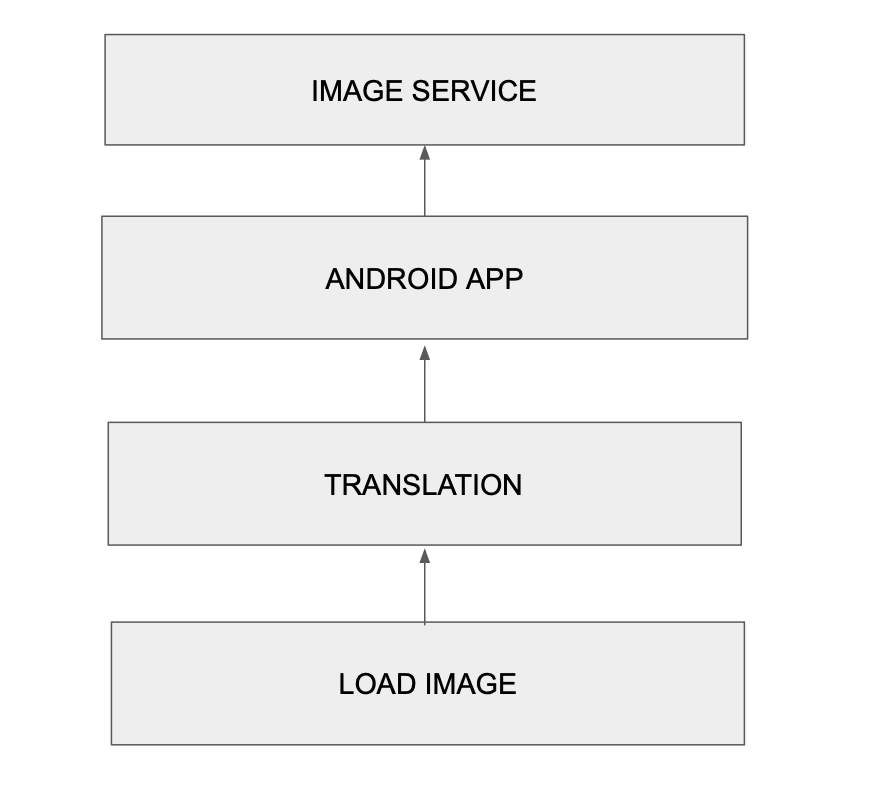
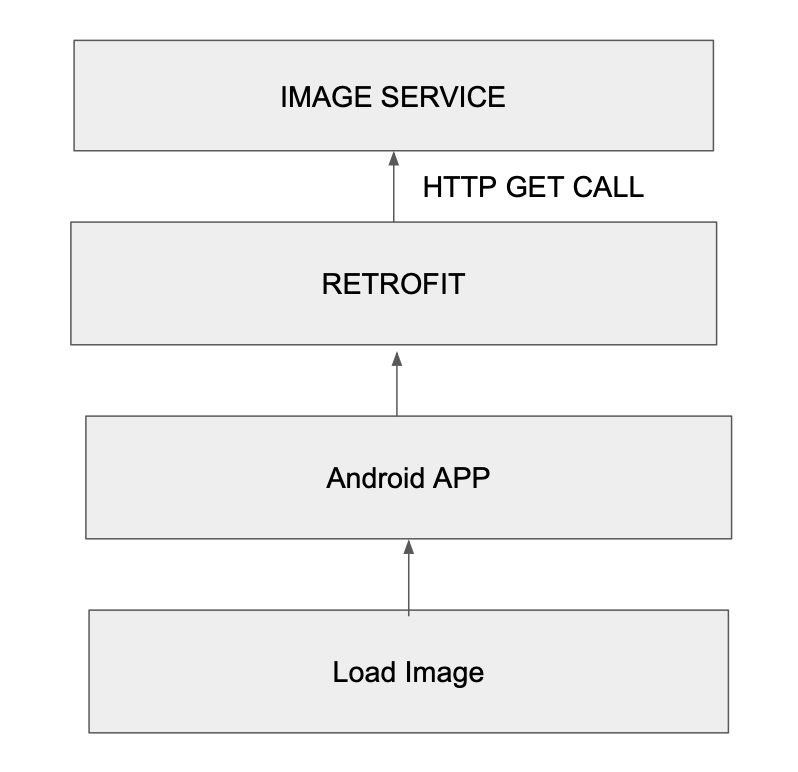
updated network request and added flow chart

diff --git a/app/src/main/java/com/williamrai_zero/upic/ui/mainactivity/MainActivity.kt b/app/src/main/java/com/williamrai_zero/upic/ui/mainactivity/MainActivity.kt
@@ -1,24 +1,29 @@
 package com.williamrai_zero.upic.ui.mainactivity
 
+import android.content.Context
+import android.content.Intent
+import android.content.SharedPreferences
 import androidx.appcompat.app.AppCompatActivity
 import android.os.Bundle
 import android.util.Log
 import android.view.View
-import android.widget.Toast
 import androidx.activity.viewModels
-import androidx.recyclerview.widget.StaggeredGridLayoutManager
+import androidx.recyclerview.widget.GridLayoutManager
+import com.google.android.material.snackbar.Snackbar
+import com.williamrai_zero.upic.R
 import com.williamrai_zero.upic.databinding.ActivityMainBinding
-import com.williamrai_zero.upic.ui.viewmodels.ImageViewModel
+import com.williamrai_zero.upic.ui.fullimageactivity.FullImageActivity
+import com.williamrai_zero.upic.util.networkutil.Resource
 import dagger.hilt.android.AndroidEntryPoint
 
 @AndroidEntryPoint
-class MainActivity : AppCompatActivity() {
+class MainActivity : AppCompatActivity(), ImageAdapter.OnImageListener {
 
     private lateinit var binding: ActivityMainBinding
     private lateinit var imageAdapter: ImageAdapter
 
     private val imageViewModel: ImageViewModel by viewModels()
-
+    private lateinit var sharedPref : SharedPreferences
 
     override fun onCreate(savedInstanceState: Bundle?) {
         super.onCreate(savedInstanceState)
@@ -27,42 +32,107 @@ class MainActivity : AppCompatActivity() {
         setContentView(binding.root)
 
         init()
+        binding.btnReload.setOnClickListener {
+            imageViewModel.getAllImages()
+            binding.llNoConnection.visibility = View.GONE
+        }
+
+        binding.swipeRefreshLayout.setOnRefreshListener {
+            imageViewModel.getAllImages()
+            binding.swipeRefreshLayout.isRefreshing = false
+            binding.llNoConnection.visibility = View.GONE
+        }
+
+        Log.d("values","${sharedPref.getBoolean(getString(R.string.first_load),false)}")
 
     }
 
     private fun init() {
+        defaultLoadState()
         // call to network for data
-        setupData()
+        observerForImages(true)
         // recyclerView
         setupRecyclerView()
+
     }
 
-    private fun setupData() {
+    private fun defaultLoadState() {
+        // default load value
+        sharedPref = getSharedPreferences(getString(R.string.sharef_prefs),Context.MODE_PRIVATE)
+        with(sharedPref.edit()) {
+            putBoolean(getString(R.string.first_load),true)
+            commit()
+        }
+    }
+
+
+    private fun observerForImages(isFirsLoad: Boolean) {
         imageViewModel.responseImage.observe(this) { response ->
-            when (response.size) {
-                1 -> {
-                    Toast.makeText(this,response[0].url,Toast.LENGTH_LONG).show()
-                } else -> {
-                imageAdapter.postData(response)
+            when (response) {
+                // when response is successful
+                is Resource.Success -> {
+                    hideProgressBar()
+                    // sets images to recyclerview adapter
+                    response.data?.let { images ->
+                        imageAdapter.postData(images)
+                    }
+
+                    with(sharedPref.edit()) {
+                        putBoolean(getString(R.string.first_load),false)
+                        commit()
+                    }
+                }
+
+                is Resource.Error -> {
+                    hideProgressBar()
+                    response.message?.let { message ->
+                        if(sharedPref.getBoolean(getString(R.string.first_load),false)) {
+                            binding.llNoConnection.visibility = View.VISIBLE
+
+                        } else {
+                            showNetworkSnackBar(message)
+                        }
+                    }
+                }
+
+                is Resource.Loading -> {
+                    showProgressBar()
                 }
             }
-
-            // until response is filled runs progress bar
-            if (response.isNotEmpty()) {
-                binding.progressBar.visibility = View.GONE
-            }
         }
+    }
 
+
+    private fun hideProgressBar() {
+        binding.progressBar.visibility = View.GONE
+    }
+
+    private fun showProgressBar() {
+        binding.progressBar.visibility = View.VISIBLE
+    }
+
+
+    private fun showNetworkSnackBar(message: String) {
+        Snackbar.make(
+            binding.clMainActivity,
+            "$message",
+            Snackbar.LENGTH_LONG
+        ).show()
     }
 
     private fun setupRecyclerView() {
-        imageAdapter = ImageAdapter(this)
-
+        imageAdapter = ImageAdapter(this, this )
         binding.imageRecyclerView.apply {
             adapter = imageAdapter
-            layoutManager = StaggeredGridLayoutManager(2,StaggeredGridLayoutManager.VERTICAL)
+            layoutManager = GridLayoutManager(this@MainActivity, 2)
             setHasFixedSize(true)
         }
+    }
+
+    override fun onImageClick(url: String) {
+        val intent = Intent(this, FullImageActivity::class.java)
+        intent.putExtra("url",url)
+        startActivity(intent)
     }
 
 }

diff --git a/app/src/main/java/com/williamrai_zero/upic/ui/mainactivity/ImageViewModel.kt b/app/src/main/java/com/williamrai_zero/upic/ui/mainactivity/ImageViewModel.kt
@@ -1,4 +1,4 @@
-package com.williamrai_zero.upic.ui.viewmodels
+package com.williamrai_zero.upic.ui.mainactivity
 
 
 import android.app.Application
@@ -7,14 +7,15 @@ import android.net.ConnectivityManager
 import android.net.ConnectivityManager.*
 import android.net.NetworkCapabilities.*
 import android.os.Build
-import android.util.Log
 import androidx.lifecycle.*
 import com.williamrai_zero.upic.MyApplication
+import com.williamrai_zero.upic.R
 import com.williamrai_zero.upic.model.ImageItem
 import com.williamrai_zero.upic.repository.ImageRepository
-import com.williamrai_zero.upic.util.Constants.IMAGE_NETWORK_ERROR
+import com.williamrai_zero.upic.util.networkutil.Resource
 import dagger.hilt.android.lifecycle.HiltViewModel
 import kotlinx.coroutines.launch
+import retrofit2.Response
 import java.io.IOException
 import javax.inject.Inject
 
@@ -22,39 +23,42 @@ import javax.inject.Inject
 @HiltViewModel
 class ImageViewModel
 @Inject
-constructor(private val repository: ImageRepository, app: Application) :
-    AndroidViewModel(app) {
+constructor(
+    private val repository: ImageRepository,
+    private val app: Application
+) : AndroidViewModel(app) {
 
-    private val _response = MutableLiveData<List<ImageItem>>()
+    private val _response = MutableLiveData<Resource<List<ImageItem>>>()
 
-    val responseImage: LiveData<List<ImageItem>>
+    val responseImage: LiveData<Resource<List<ImageItem>>>
         get() = _response
 
     init {
         getAllImages()
     }
 
-    private fun getAllImages() = viewModelScope.launch {
+    fun getAllImages() = viewModelScope.launch {
         safeLoadingImages()
     }
 
+    /**
+     *
+     */
     private suspend fun safeLoadingImages() {
+        _response.postValue(Resource.Loading())
         try {
-            if(checkInternetConnection()) {
+            if (hasInternetConnection()) {
                 repository.getAllImages().let { response ->
-                    if (response.isSuccessful) {
-                        _response.postValue(response.body())
-                    } else {
-                        Log.d(IMAGE_NETWORK_ERROR, "ERROR")
-                    }
+                    _response.postValue(handleImageResponse(response))
                 }
             } else {
-                _response.postValue(listOf(ImageItem("no internet connection","","")))
+                _response.postValue(Resource.Error("No Internet connection. Please check your network."))
             }
 
         } catch (t: Throwable) {
             when (t) {
-                is IOException ->  _response.postValue(listOf(ImageItem("Network Failure","","")))
+                is IOException -> _response.postValue(Resource.Error("Network Failure"))
+                else -> _response.postValue(Resource.Error("Error: ${t.message}"))
             }
         }
     }
@@ -62,10 +66,17 @@ constructor(private val repository: ImageRepository, app: Application) :
     /**
      *
      */
-    private fun checkInternetConnection(): Boolean {
-        val connectivityManager = getApplication<MyApplication>().getSystemService(
-            Context.CONNECTIVITY_SERVICE) as ConnectivityManager
+    private fun handleImageResponse(response: Response<List<ImageItem>>): Resource<List<ImageItem>> {
+        if (response.isSuccessful) {
+            response.body()?.let { resultResponse ->
+                return Resource.Success(resultResponse)
+            }
+        }
+        return Resource.Error(response.message())
+    }
 
+    private fun hasInternetConnection(): Boolean {
+        val connectivityManager = getApplication<MyApplication>().getSystemService(Context.CONNECTIVITY_SERVICE) as ConnectivityManager
         if (Build.VERSION.SDK_INT >= Build.VERSION_CODES.M) {
             val activeNetwork = connectivityManager.activeNetwork ?: return false
             val capabilities = connectivityManager.getNetworkCapabilities(activeNetwork) ?: return false
@@ -76,8 +87,8 @@ constructor(private val repository: ImageRepository, app: Application) :
                 else -> false
             }
         } else {
-            connectivityManager.activeNetworkInfo?.run {
-                return when(type) {
+            connectivityManager.activeNetworkInfo?. run {
+                return when (type) {
                     TYPE_WIFI -> true
                     TYPE_MOBILE -> true
                     TYPE_ETHERNET -> true
@@ -85,10 +96,7 @@ constructor(private val repository: ImageRepository, app: Application) :
                 }
             }
         }
-
         return false
     }
-
-
 
 }

diff --git a/app/src/main/java/com/williamrai_zero/upic/ui/mainactivity/ImageAdapter.kt b/app/src/main/java/com/williamrai_zero/upic/ui/mainactivity/ImageAdapter.kt
@@ -7,6 +7,7 @@ import android.view.ViewGroup
 import androidx.recyclerview.widget.AsyncListDiffer
 import androidx.recyclerview.widget.DiffUtil
 import androidx.recyclerview.widget.RecyclerView
+import androidx.swiperefreshlayout.widget.CircularProgressDrawable
 import com.bumptech.glide.Glide
 import com.bumptech.glide.load.resource.bitmap.CenterCrop
 import com.bumptech.glide.load.resource.bitmap.RoundedCorners
@@ -15,7 +16,8 @@ import com.williamrai_zero.upic.databinding.ImageLayoutBinding
 import com.williamrai_zero.upic.model.ImageItem
 import com.williamrai_zero.upic.ui.fullimageactivity.FullImageActivity
 
-class ImageAdapter(private val context: Context) : RecyclerView.Adapter<ImageAdapter.ViewHolder>() {
+class ImageAdapter(private val context: Context, private val onImageListener: OnImageListener) :
+    RecyclerView.Adapter<ImageAdapter.ViewHolder>() {
 
     inner class ViewHolder(val binding: ImageLayoutBinding) : RecyclerView.ViewHolder(binding.root)
 
@@ -56,18 +58,19 @@ class ImageAdapter(private val context: Context) : RecyclerView.Adapter<ImageAda
 
             Glide.with(context)
                 .load(imageUrl)
-                .placeholder(R.mipmap.ic_placeholder)
+                .placeholder(R.drawable.ic_placeholder)
                 .transform(CenterCrop(), RoundedCorners(12))
                 .into(ivImages)
         }
 
         holder.binding.ivImages.setOnClickListener {
-            val intent = Intent(context, FullImageActivity::class.java)
-            intent.putExtra("url",currImage.url)
-            context.startActivity(intent)
+            onImageListener.onImageClick(currImage.url)
         }
     }
 
     override fun getItemCount() = differ.currentList.size
 
+    interface OnImageListener {
+        fun onImageClick(url: String)
+    }
 }

diff --git a/app/src/main/java/com/williamrai_zero/upic/ui/fullimageactivity/FullImageActivity.kt b/app/src/main/java/com/williamrai_zero/upic/ui/fullimageactivity/FullImageActivity.kt
@@ -18,6 +18,7 @@ import androidx.annotation.RequiresApi
 import androidx.appcompat.app.AlertDialog
 import androidx.core.app.ActivityCompat
 import androidx.core.content.ContextCompat
+import androidx.swiperefreshlayout.widget.CircularProgressDrawable
 import com.bumptech.glide.Glide
 import com.google.android.material.snackbar.Snackbar
 import com.williamrai_zero.upic.R
@@ -56,10 +57,16 @@ class FullImageActivity : AppCompatActivity() {
      *
      */
     private fun loadImageIntoView(url: String?) {
+        val circularProgressDrawable = CircularProgressDrawable(this)
+        circularProgressDrawable.strokeWidth = 5f
+        circularProgressDrawable.centerRadius = 30f
+        circularProgressDrawable.start()
+
         binding.apply {
             Glide
                 .with(this@FullImageActivity)
                 .load(url)
+                .placeholder(circularProgressDrawable)
                 .into(ivFullImage)
         }
     }

diff --git a/app/src/main/java/com/williamrai_zero/upic/util/networkutil/Resource.kt b/app/src/main/java/com/williamrai_zero/upic/util/networkutil/Resource.kt
@@ -1,5 +1,9 @@
-package com.williamrai_zero.upic.util
+package com.williamrai_zero.upic.util.networkutil
 
+/**
+ * Wrapper class for network responses
+ * handles success, error and loading state
+ */
 sealed class Resource<T>(
     val data: T? = null,
     val message: String? = null

diff --git a/app/src/main/java/com/williamrai_zero/upic/util/Constants.kt b/app/src/main/java/com/williamrai_zero/upic/util/Constants.kt
@@ -4,4 +4,5 @@ object Constants {
     const val BASE_URL = "https://eulerity-hackathon.appspot.com"
     const val IMAGE_ENDPOINT = "/image"
     const val IMAGE_NETWORK_ERROR = "IMAGE NETWORK ERROR"
+    const val NETWORK_TAG = "NETWORK"
 }

diff --git a/app/src/main/java/com/williamrai_zero/upic/util/di/AppModule.kt b/app/src/main/java/com/williamrai_zero/upic/util/di/AppModule.kt
@@ -25,6 +25,4 @@ class AppModule {
             .addConverterFactory(GsonConverterFactory.create())
             .build()
             .create(ImageService::class.java)
-
-
 }

diff --git a/README.md b/README.md
@@ -8,4 +8,7 @@
 5. Coil(Coroutine Image Loader)
 
 ## High Level Design Overview
-![modules](highlevel.png)
+![modules](highLevel.png)
+
+## App Flow Diagram
+![modules](app_flow.jpg)
